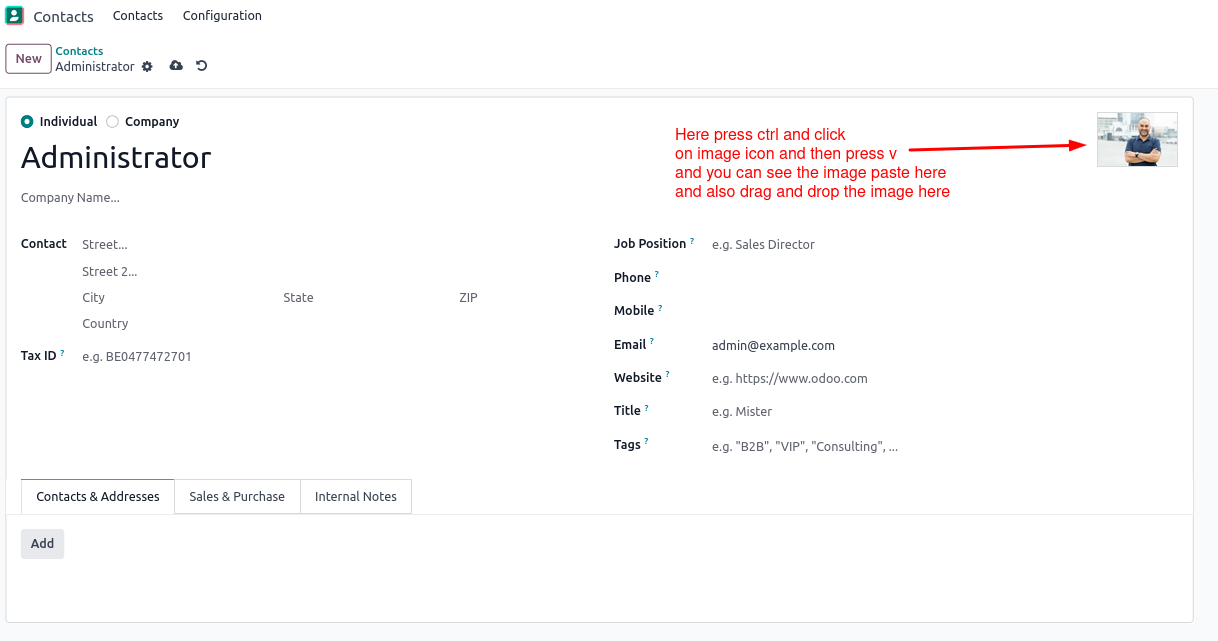
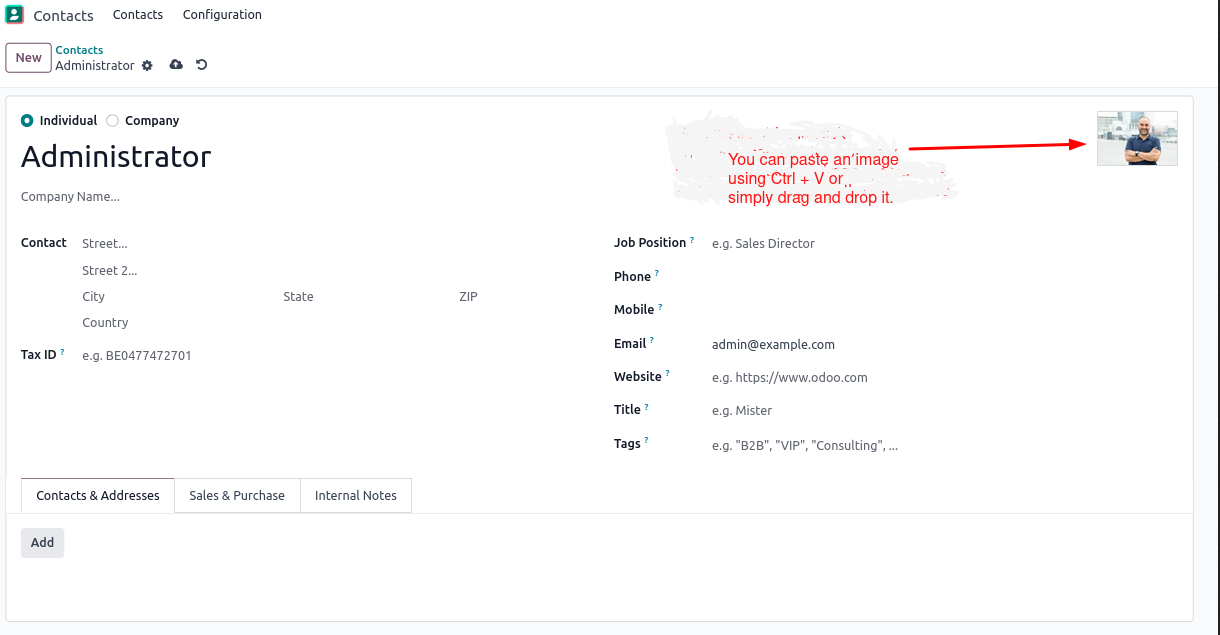
[fix] images and text

diff --git a/legion_drag_and_drop_binary_field/static/description/index.html b/legion_drag_and_drop_binary_field/static/description/index.html
@@ -38,14 +38,14 @@
                 <li>Copy and paste images from the clipboard.</li>
                 <li>Works on any binary field in Odoo.</li>
                 <li>Supports JPG, PNG, and other standard image formats.</li>
-                <li>Auto-resizes images to fit the field dimensions.</li>
+
             </ul>
         </div>
         
         <div class="section">
             <h2>Installation & Usage</h2>
             <p>1. Install the module from the Odoo App Store.</p>
-            <p>2. Navigate to the Product form or any module with an image field.</p>
+            <p>2. Apply our custom widget to the image field in the form view.</p>
             <p>3. Either drag and drop an image or copy and paste it.</p>
             <p>4. Save the record to apply changes.</p>
         </div>
@@ -56,7 +56,7 @@
             <img class="screenshot mb-4" src="screenshot1.png" alt="Drag and Drop Example"><br/>
             </div>
                                 <div class="section">
-            <img class="screenshot mb-4" src="Screenshot(16).png" alt="Drag and Drop Example"><br/>
+            <img class="screenshot mb-4" src="Screenshot(16).jpg" alt="Drag and Drop Example"><br/>
             </div>
                                 <div class="section">
             <img class="screenshot mb-4" src="Screenshot(17).png" alt="Drag and Drop Example"><br/>
@@ -98,16 +98,16 @@
         <div class="section">
             <h2>Technical Specifications</h2>
             <ul>
-                <li>Odoo Version: 14, 15, 16, 17, 18</li>
+                <li>Odoo Version: 17, 18</li>
                 <li>Compatible with Community & Enterprise</li>
                 <li>Dependencies: None</li>
-                <li>License: LGPL-3</li>
+                <li>License: OPL-1</li>
             </ul>
         </div>
         
         <div class="section">
             <h2>Support</h2>
-            <p>For support or custom development, contact us at: <strong>hamzapervaiz8@gmail.com</strong></p>
+            <p>For support or custom development, contact us at: <strong>support@legionsoft.com</strong></p>
         </div>
     </div>
 </body>

diff --git a/legion_drag_and_drop_binary_field/__manifest__.py b/legion_drag_and_drop_binary_field/__manifest__.py
@@ -11,9 +11,9 @@
         dealing with binary fields. 
         """,
     'license': 'OPL-1',
-    'price': 0,
-    'currency': 'EUR',
-    'author': "Byte Legions",
+    'price': 19.99,
+    'currency': 'USD',
+    'author': "Legion Soft",
     'images': [
         'static/description/main.png',
     ],
